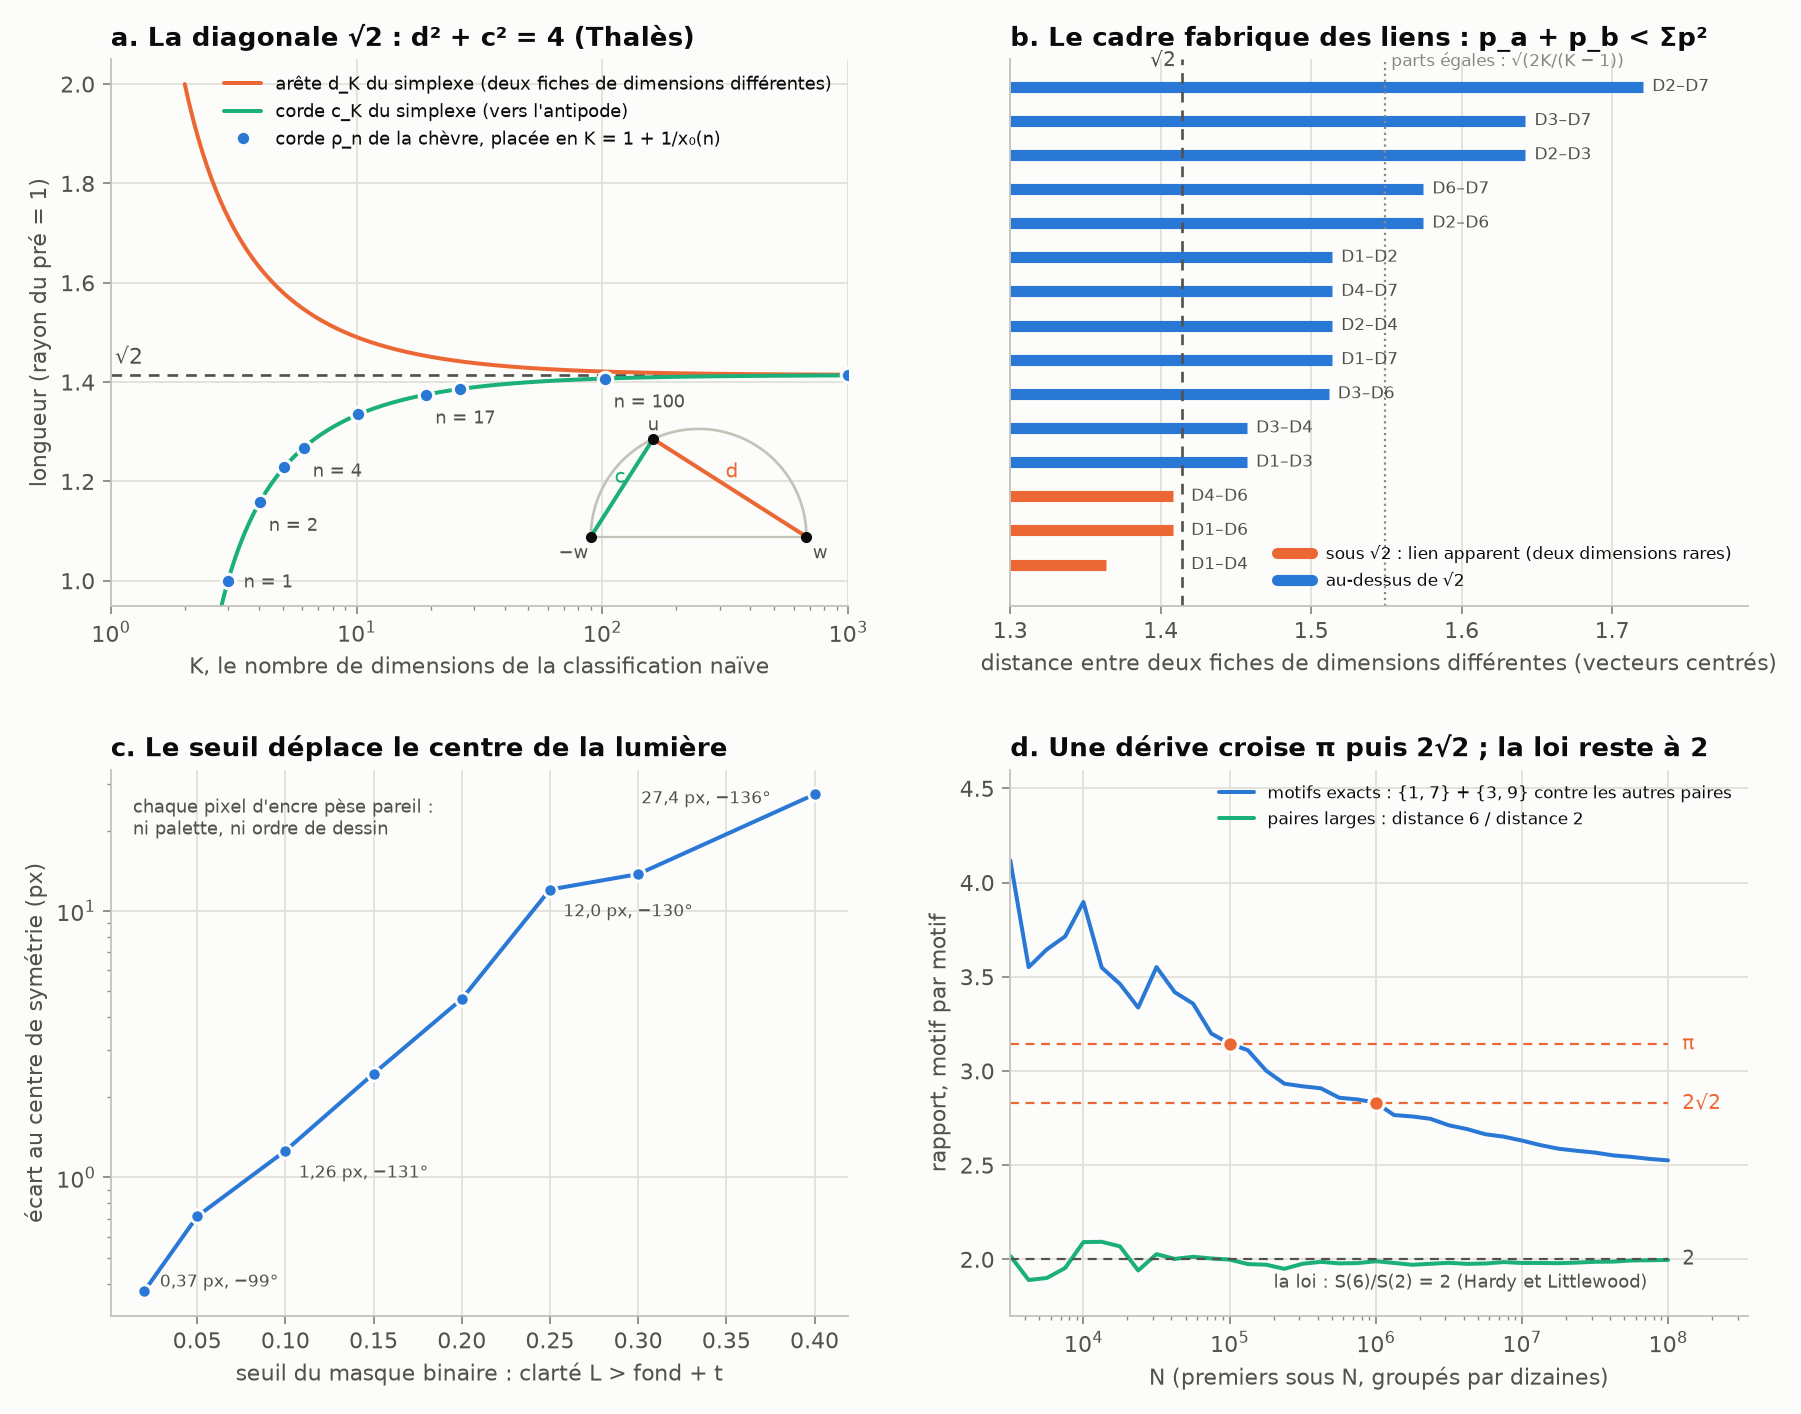
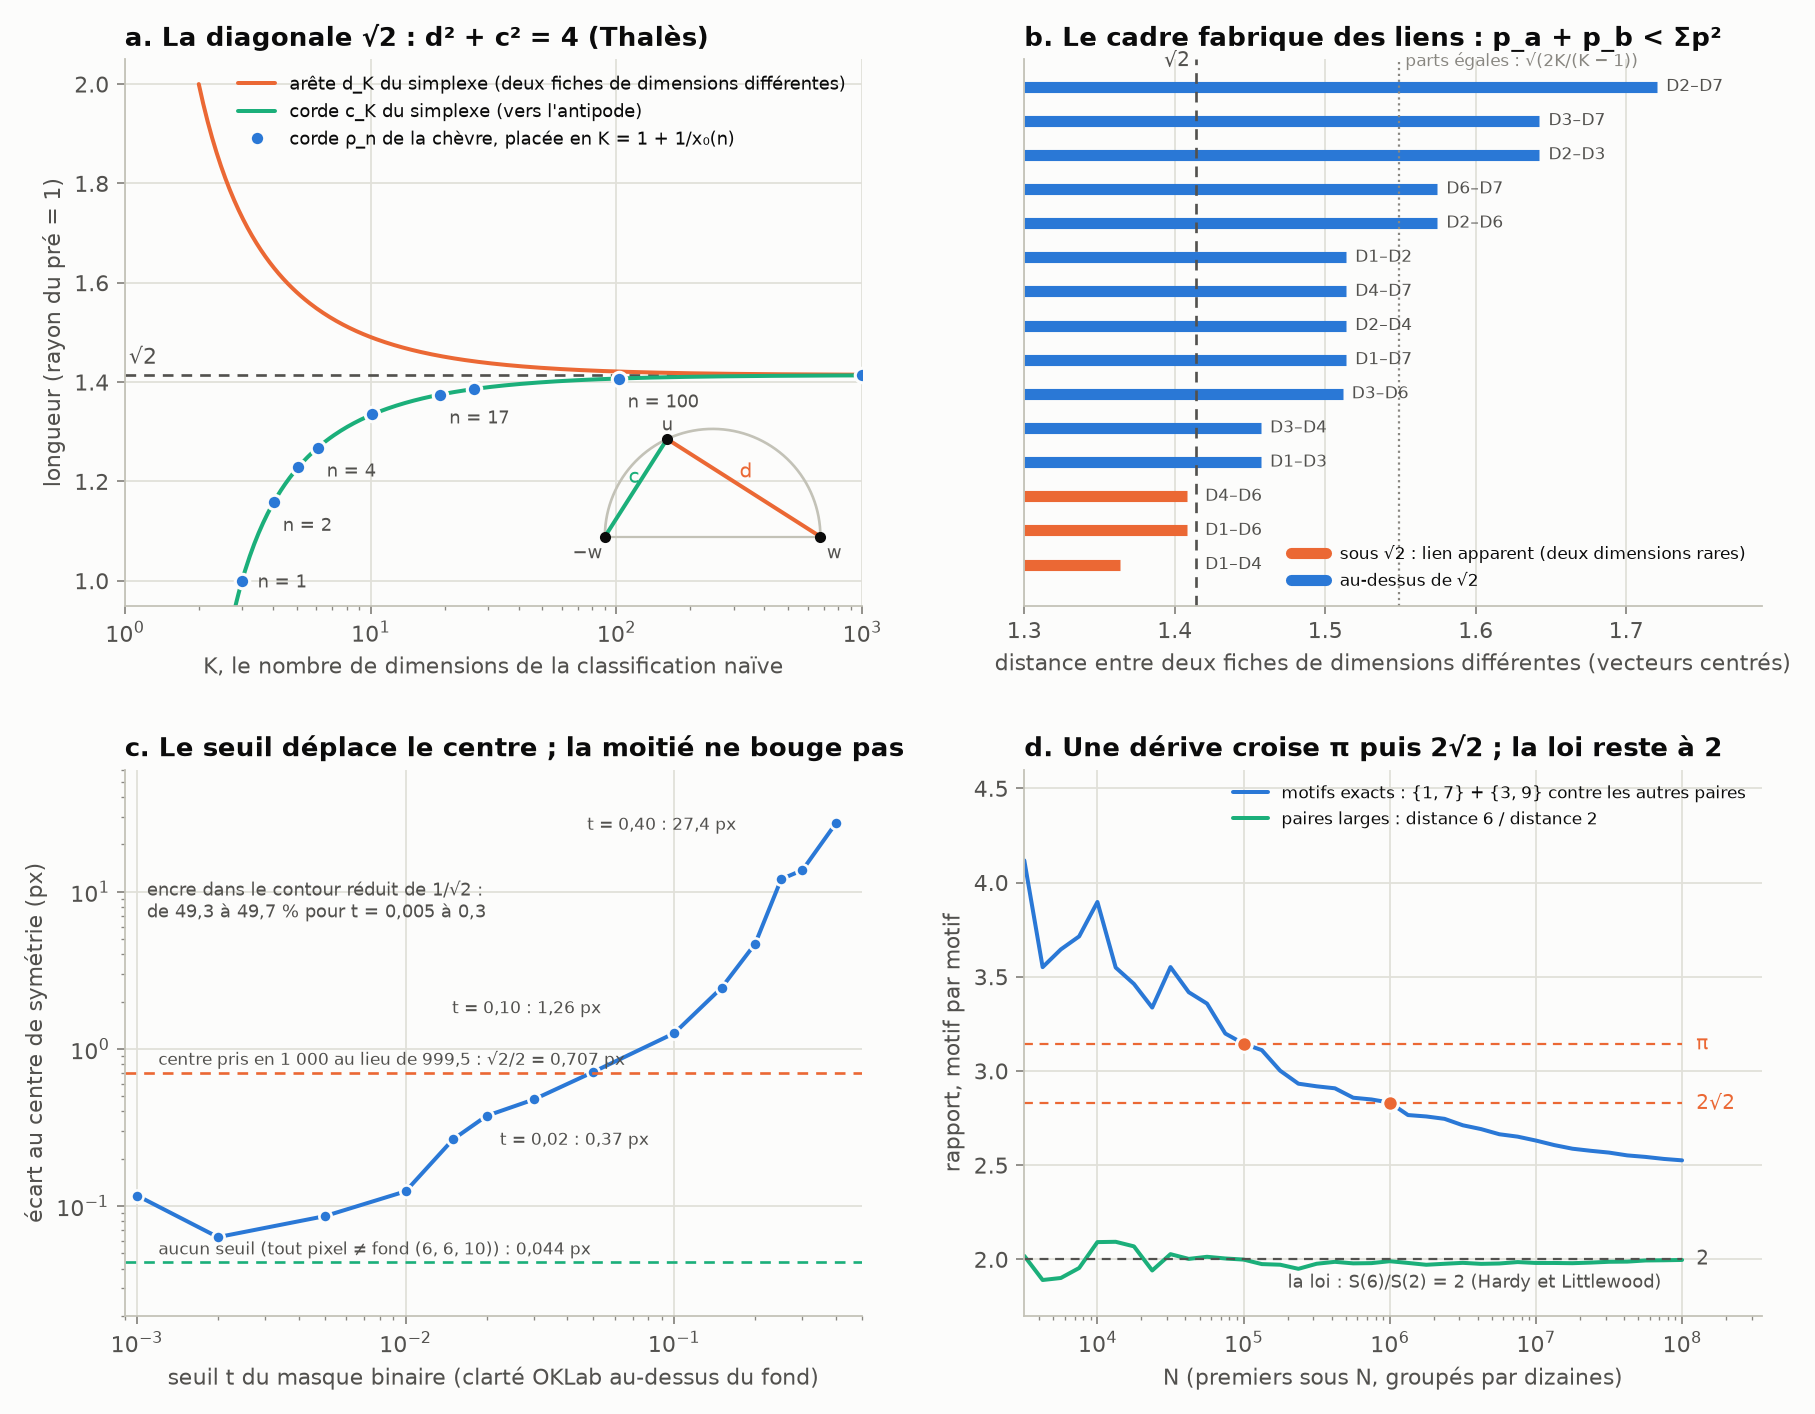
Révision 001 (en cours) : le masque binaire, son seuil et ce que vaut 0,37 px
- scripts/revision_001.py, section 4.9 (question de l'auteur) : l'image (octets non signés,
  fond exact RGB (6, 6, 10)), le seuil sur la clarté OKLab, où il est défini (partie XXX, § 1 et
  2 ; centre_venn.py), l'histogramme lisse entre 127 et 128 (pas de repli signé), le masque sans
  seuil centré à 0,044 px, la convention du demi-pixel (√2/2 vers +135°), le 10/3 du fond bleuté,
  et la moitié de la partie XXX refaite à six seuils (49,3 à 49,7 % : robuste au cadre).
- figure rev001_diagonale_cadre.png, panneau c, refait.

Claude-Session: https://claude.ai/code/session_01NG1K9pErXUdeoo1X8SdknY

diff --git a/chevre-optique/scripts/revision_001.py b/chevre-optique/scripts/revision_001.py
@@ -1012,7 +1012,112 @@ else:
           " (Bertin et Arnouts, SExtractor, 1996), et la raison des corrections de chromaticité des catalogues.")
     assert T4[0.04][1] < 10 and T4[0.04][4] > 0.05 and T4[0.06][4] > 0.05
     assert MASQ[0][2] < 0.5 and MASQ[-1][2] > 20 and all(-140 < m_[3] < -120 for m_ in MASQ[2:])
-    del Lk, Ck, cls, dmin, zz
+    # --- 4.9 la question de l'auteur : quel masque, quel seuil, et que vaut 0,37 px ? -------------------------------
+    ligne()
+    ligne("### 4.9 Le masque binaire : de quoi, où, et ce que vaut 0,37 px (question de l'auteur)")
+    ligne()
+    coin = S8[:20, :20].reshape(-1, 3)
+    vals_, cnt_ = np.unique(coin, axis=0, return_counts=True)
+    FOND_RGB = tuple(int(v) for v in vals_[np.argmax(cnt_)])
+    bord = np.concatenate([S8[:50].reshape(-1, 3), S8[-50:].reshape(-1, 3), S8[:, :50].reshape(-1, 3), S8[:, -50:].reshape(-1, 3)])
+    part_fond = float(np.mean(np.all(bord == np.array(FOND_RGB, np.uint8), axis=1)))
+    ligne(f"- **L'image** : `{os.path.basename(IMG_P)}` (dépôt de Dzoba, copie locale ; c'est l'image de son README, celle des"
+          f" parties XXIX et XXX), {S8.shape[1]} × {S8.shape[0]} pixels, trois canaux de 8 bits non signés (0 à 255,"
+          f" type `{S8.dtype}`). Le fond est une couleur exacte, RGB = {FOND_RGB} : un gris bleuté ({fr(100 * part_fond, '{:.1f}')} %"
+          " des pixels des bandes de 50 px au bord).")
+    ligne(f"- **Le seuil, de quoi** : de la clarté perçue OKLab L (0 = noir, 1 = blanc), calculée pixel par pixel à partir des"
+          f" trois canaux. Le fond vaut L = {fr(fondL, '{:.4f}')} (médiane du coin 20 × 20). Le masque est l'ensemble des pixels"
+          " où L > fond + t : chacun pèse 1, les autres 0. Son centre est la moyenne des positions de ses pixels ; on le"
+          " compare au centre de symétrie d'ordre 17, (999,497 ; 999,499), connu à 0,003 px (partie XXX, § 1).")
+    ligne("- **Où** : partie XXX ([centre-venn.md](../centre-venn.md), § 1, la deuxième des six pesées, « masque de clarté"
+          " OKLab (L > fond + 0,1) » ; § 2, la mesure de la moitié avec le même seuil) ; script `scripts/centre_venn.py`"
+          " (section 1, liste `POIDS` ; fonction `mesure_moitie`, `seuil=0.1`) ; balayage du seuil : `scripts/revision_001.py`,"
+          " sections 4.8 et 4.9 ; figure `rev001_diagonale_cadre.png`, panneau c ; fiche 018. La partie XXIX utilisait un"
+          " autre masque binaire, sur la moyenne des canaux : moyenne RGB > fond + 25.")
+    ligne()
+    hR = np.bincount(S8[..., 0].ravel(), minlength=256)
+    hB = np.bincount(S8[..., 2].ravel(), minlength=256)
+    rap = lambda h_, k: h_[k + 1] / h_[k]  # noqa: E731
+    sauts = [abs(np.log(rap(h_, 127)) - np.median([np.log(rap(h_, k)) for k in range(110, 145) if k != 127])) for h_ in (hR, hB)]
+    ligne(f"**Signé ou non signé ?** Un passage par des octets signés (−128 à 127) replierait les valeurs au-delà de 127 :"
+          f" l'histogramme des canaux sauterait entre 127 et 128. Il est lisse (rouge : {ent(int(hR[127]))} puis {ent(int(hR[128]))} ;"
+          f" bleu : {ent(int(hB[127]))} puis {ent(int(hB[128]))} ; l'écart du rapport 128/127 à ses voisins est de"
+          f" {fr(100 * max(sauts), '{:.1f}')} % au plus). Et le calcul lui-même ne passe jamais par des entiers signés : les"
+          " canaux sont lus de 0 à 255 puis divisés par 255.")
+    ligne()
+    zz = None
+    yy_, xx_ = np.mgrid[0:S8.shape[0], 0:S8.shape[1]]
+    zz = (xx_ - C_SYM[0]) + 1j * (C_SYM[1] - yy_)
+    del yy_, xx_
+    diff = np.any(S8 != np.array(FOND_RGB, np.uint8), axis=2)
+    b0 = zz[diff].mean()
+    ligne("**Le seuil, descendu jusqu'à zéro** :")
+    ligne()
+    ligne("| masque | pixels | écart au centre de symétrie | direction (°, y vers le haut) |")
+    ligne("|---|---:|---:|---:|")
+    ligne(f"| tout pixel différent du fond exact {FOND_RGB} (aucun seuil) | {ent(int(diff.sum()))} | {fr(abs(b0), '{:.3f}')} px |"
+          f" {fr(np.degrees(np.angle(b0)), '{:.0f}')} |")
+    BAS = []
+    for t_ in (0.001, 0.002, 0.005, 0.01, 0.015, 0.02, 0.03, 0.05):
+        mm = Lk > fondL + t_
+        bb = zz[mm].mean()
+        BAS.append((t_, abs(bb)))
+        ligne(f"| L > fond + {fr(t_, '{:.3f}')} | {ent(int(mm.sum()))} | {fr(abs(bb), '{:.3f}')} px | {fr(np.degrees(np.angle(bb)), '{:.0f}')} |")
+    ligne()
+    ligne(f"- **0,37 px n'est pas une constante** : c'est la valeur du balayage à t = 0,02. Sans aucun seuil, l'encre est"
+          f" centrée à {fr(abs(b0), '{:.3f}')} px près ; jusqu'à t = 0,01, l'écart reste entre"
+          f" {fr(min(v for t_, v in BAS if t_ <= 0.01), '{:.2f}')} et {fr(max(v for t_, v in BAS if t_ <= 0.01), '{:.2f}')} px (le niveau du bruit) ;"
+          " au-delà, il monte avec le seuil. Rapporté au rayon du dessin (984 px), 0,37 px fait 3,8·10⁻⁴, soit 380 ppm :"
+          " petit, mais cent fois la précision du centre.")
+    biais = (999.5 - 1000.0) + 1j * (1000.0 - 999.5)
+    ligne(f"- **Le zéro qui déséquilibre** : ton intuition a un vrai pendant dans l'image. Un axe de 2 000 pixels n'a pas de"
+          f" pixel central : le milieu tombe entre 999 et 1 000, en 999,5, comme le milieu de −128 … 127 tombe en −0,5."
+          f" Qui prendrait 1 000 (= 2 000/2) pour centre se tromperait d'un demi-pixel sur chaque axe : {fr(abs(biais), '{:.4f}')} px"
+          f" = √2/2, vers {fr(np.degrees(np.angle(biais)), '{:.0f}')}°. Le centre de symétrie mesuré, (999,497 ; 999,499), dit que le"
+          " dessin respecte la bonne convention. Et le masque ne suit pas ce biais : sa direction est opposée en hauteur"
+          " (−99° à −136°) et sa taille grandit avec le seuil. Il passe par 0,71 px à t = 0,05, à 1 % de √2/2 : encore une"
+          " dérive qui croise une constante, comme les dizaines de premiers croisent π puis 2√2 (section 4.2).")
+    ligne(f"- **Le 10/3** : le fond n'est pas un zéro neutre. Ses canaux valent {FOND_RGB}, donc sa moyenne RGB vaut"
+          f" ({FOND_RGB[0]} + {FOND_RGB[1]} + {FOND_RGB[2]})/3 = 22/3, dont 10/3 viennent du bleu. Ce décalage est uniforme : il est"
+          " retranché avant la pesée, et un fond uniforme n'a pas de dipôle (son centre est celui du cadre). Il agit"
+          " seulement aux bords anticrénelés, où chaque courbe se mélange à ce zéro bleuté : il fait partie de l'effet du"
+          " seuil. Pour le séparer, il faudrait un rendu sur un fond neutre (piste).")
+    ligne()
+    ligne("**Ce que le seuil change, et ce qu'il ne change pas** (la mesure de la moitié de la partie XXX, § 2, refaite à"
+          " chaque seuil ; ρ est le rayon rapporté au contour, mesuré angle par angle) :")
+    ligne()
+    ligne("| seuil t | part de l'intérieur qui est de l'encre | encre dans le contour réduit de 1/√2 | ρ médian (1/√2 = 0,7071) |"
+          " ⟨ρ²⟩ | écart du centre |")
+    ligne("|---:|---:|---:|---:|---:|---:|")
+    RR_ = np.abs(zz)
+    TH_ = np.angle(zz)
+    NB_ = 3600
+    Bn_ = ((TH_ + np.pi) / (2 * np.pi) * NB_).astype(int) % NB_
+    MOIT = []
+    for t_ in (0.005, 0.02, 0.05, 0.1, 0.2, 0.3):
+        mm = Lk > fondL + t_
+        RMAX_ = np.zeros(NB_)
+        np.maximum.at(RMAX_, Bn_[mm], RR_[mm])
+        rout = np.interp((TH_ + np.pi) / (2 * np.pi) * NB_, np.arange(NB_), RMAX_)
+        DED_ = RR_ < rout - 2
+        rho_ = (RR_ / np.maximum(rout, 1.0))[mm & DED_]
+        MOIT.append((t_, (mm & DED_).sum() / DED_.sum(), np.mean(rho_ <= 2**-0.5), np.median(rho_), np.mean(rho_**2), abs(zz[mm].mean())))
+        ligne(f"| {fr(t_, '{:.3f}')} | {fr(100 * MOIT[-1][1], '{:.1f}')} % | {fr(100 * MOIT[-1][2], '{:.2f}')} % | {fr(MOIT[-1][3])} |"
+              f" {fr(MOIT[-1][4])} | {fr(MOIT[-1][5], '{:.2f}')} px |")
+    ligne()
+    ligne(f"- Le seuil change la quantité d'encre de {fr(100 * MOIT[0][1], '{:.0f}')} % à {fr(100 * MOIT[-1][1], '{:.0f}')} %, et le centre"
+          f" de {fr(MOIT[0][5], '{:.2f}')} à {fr(MOIT[-1][5], '{:.1f}')} px. Mais la moitié reste à sa place : entre"
+          f" {fr(100 * min(m_[2] for m_ in MOIT), '{:.2f}')} % et {fr(100 * max(m_[2] for m_ in MOIT), '{:.2f}')} % de l'encre dans le contour"
+          f" réduit de 1/√2, ρ médian entre {fr(min(m_[3] for m_ in MOIT))} et {fr(max(m_[3] for m_ in MOIT))}.")
+    ligne("- **Pourquoi.** Le seuil change la couleur en largeur, et les couleurs tournent autour du centre : il touche le"
+          " premier harmonique (le dipôle, donc le centre). La moitié ne regarde que la distance au centre, en moyenne sur"
+          " toutes les courbes : l'harmonique zéro, que la rotation d'ordre 17 protège. Le résultat de la partie XXX sur la"
+          " moitié est donc robuste au cadre ; ses centres de la lumière, eux, dépendent du cadre.")
+    assert abs(b0) < 0.1 and max(v for t_, v in BAS if t_ <= 0.01) < 0.2 and abs(abs(biais) - 2**-0.5) < 1e-12
+    assert max(m_[2] for m_ in MOIT) - min(m_[2] for m_ in MOIT) < 0.01 and MOIT[-1][5] > 10
+    assert max(sauts) < 0.05
+    del zz, RR_, TH_, Bn_
+    del Lk, Ck, cls, dmin
     TESTS.append(("006 et 007", "classes de teinte, montée cyclique, masques de 0,02 à 0,40",
                   f"pas d'ordre de dessin ; le seuil déplace le centre de {fr(MASQ[0][2], '{:.2f}')} à {fr(MASQ[-1][2], '{:.0f}')} px"))
 
@@ -1089,20 +1194,29 @@ def panneau_seuil(ax):
     if "MASQ" not in globals():
         ax.text(0.5, 0.5, "image de Dzoba absente", ha="center", transform=ax.transAxes)
         return
-    t_ = [m_[0] for m_ in MASQ]
-    e_ = [m_[2] for m_ in MASQ]
-    ax.plot(t_, e_, "-o", color=F.BLEU, ms=6, mec=F.SURF, mew=1.3)
-    for tt, ee, (_, _, _, ang) in zip(t_, e_, MASQ):
-        if tt in (0.02, 0.1, 0.25, 0.4):
-            ax.annotate(f"{fr(ee, '{:.2f}') if ee < 10 else fr(ee, '{:.1f}')} px, {fr(ang, '{:.0f}')}°", (tt, ee),
-                        xytext=(7, 2) if tt == 0.02 else (-78, -4) if tt == 0.4 else (6, -12), textcoords="offset points",
+    pts = sorted({round(t_, 4): e_ for t_, e_ in [(m_[0], m_[2]) for m_ in MASQ] + BAS}.items())
+    t_ = [a_ for a_, _ in pts]
+    e_ = [b_ for _, b_ in pts]
+    ax.plot(t_, e_, "-o", color=F.BLEU, ms=5.5, mec=F.SURF, mew=1.2, label="masque L > fond + t : écart du centre")
+    ax.axhline(abs(b0), color=F.AQUA, lw=1.2, ls=(0, (4, 3)))
+    ax.text(0.0012, abs(b0) * 1.12, f"aucun seuil (tout pixel ≠ fond {FOND_RGB}) : {fr(abs(b0), '{:.3f}')} px", fontsize=7.8, color=F.INK2)
+    ax.axhline(2**-0.5, color=F.ORANGE, lw=1.2, ls=(0, (4, 3)))
+    ax.text(0.0012, 2**-0.5 * 1.12, "centre pris en 1 000 au lieu de 999,5 : √2/2 = 0,707 px", fontsize=7.8, color=F.INK2)
+    for tt, ee in pts:
+        if tt in (0.02, 0.1, 0.4):
+            ax.annotate(f"t = {fr(tt, '{:.2f}')} : {fr(ee, '{:.2f}') if ee < 10 else fr(ee, '{:.1f}')} px", (tt, ee),
+                        xytext={0.4: (-112, -3), 0.1: (-100, 9), 0.02: (6, -13)}[tt], textcoords="offset points",
                         fontsize=7.8, color=F.INK2)
+    ax.set_xscale("log")
     ax.set_yscale("log")
-    ax.set_xlabel("seuil du masque binaire : clarté L > fond + t")
+    ax.set_xlim(0.0009, 0.5)
+    ax.set_ylim(0.02, 60)
+    ax.set_xlabel("seuil t du masque binaire (clarté OKLab au-dessus du fond)")
     ax.set_ylabel("écart au centre de symétrie (px)")
-    ax.set_title("c. Le seuil déplace le centre de la lumière")
-    ax.text(0.03, 0.95, "chaque pixel d'encre pèse pareil :\nni palette, ni ordre de dessin", transform=ax.transAxes,
-            fontsize=8, color=F.INK2, va="top")
+    ax.set_title("c. Le seuil déplace le centre ; la moitié ne bouge pas")
+    ax.text(0.03, 0.8, "encre dans le contour réduit de 1/√2 :\nde " + fr(100 * min(m_[2] for m_ in MOIT), '{:.1f}') + " à "
+            + fr(100 * max(m_[2] for m_ in MOIT), '{:.1f}') + " % pour t = 0,005 à 0,3", transform=ax.transAxes, fontsize=8,
+            color=F.INK2, va="top")
 
 
 def panneau_derive(ax):
